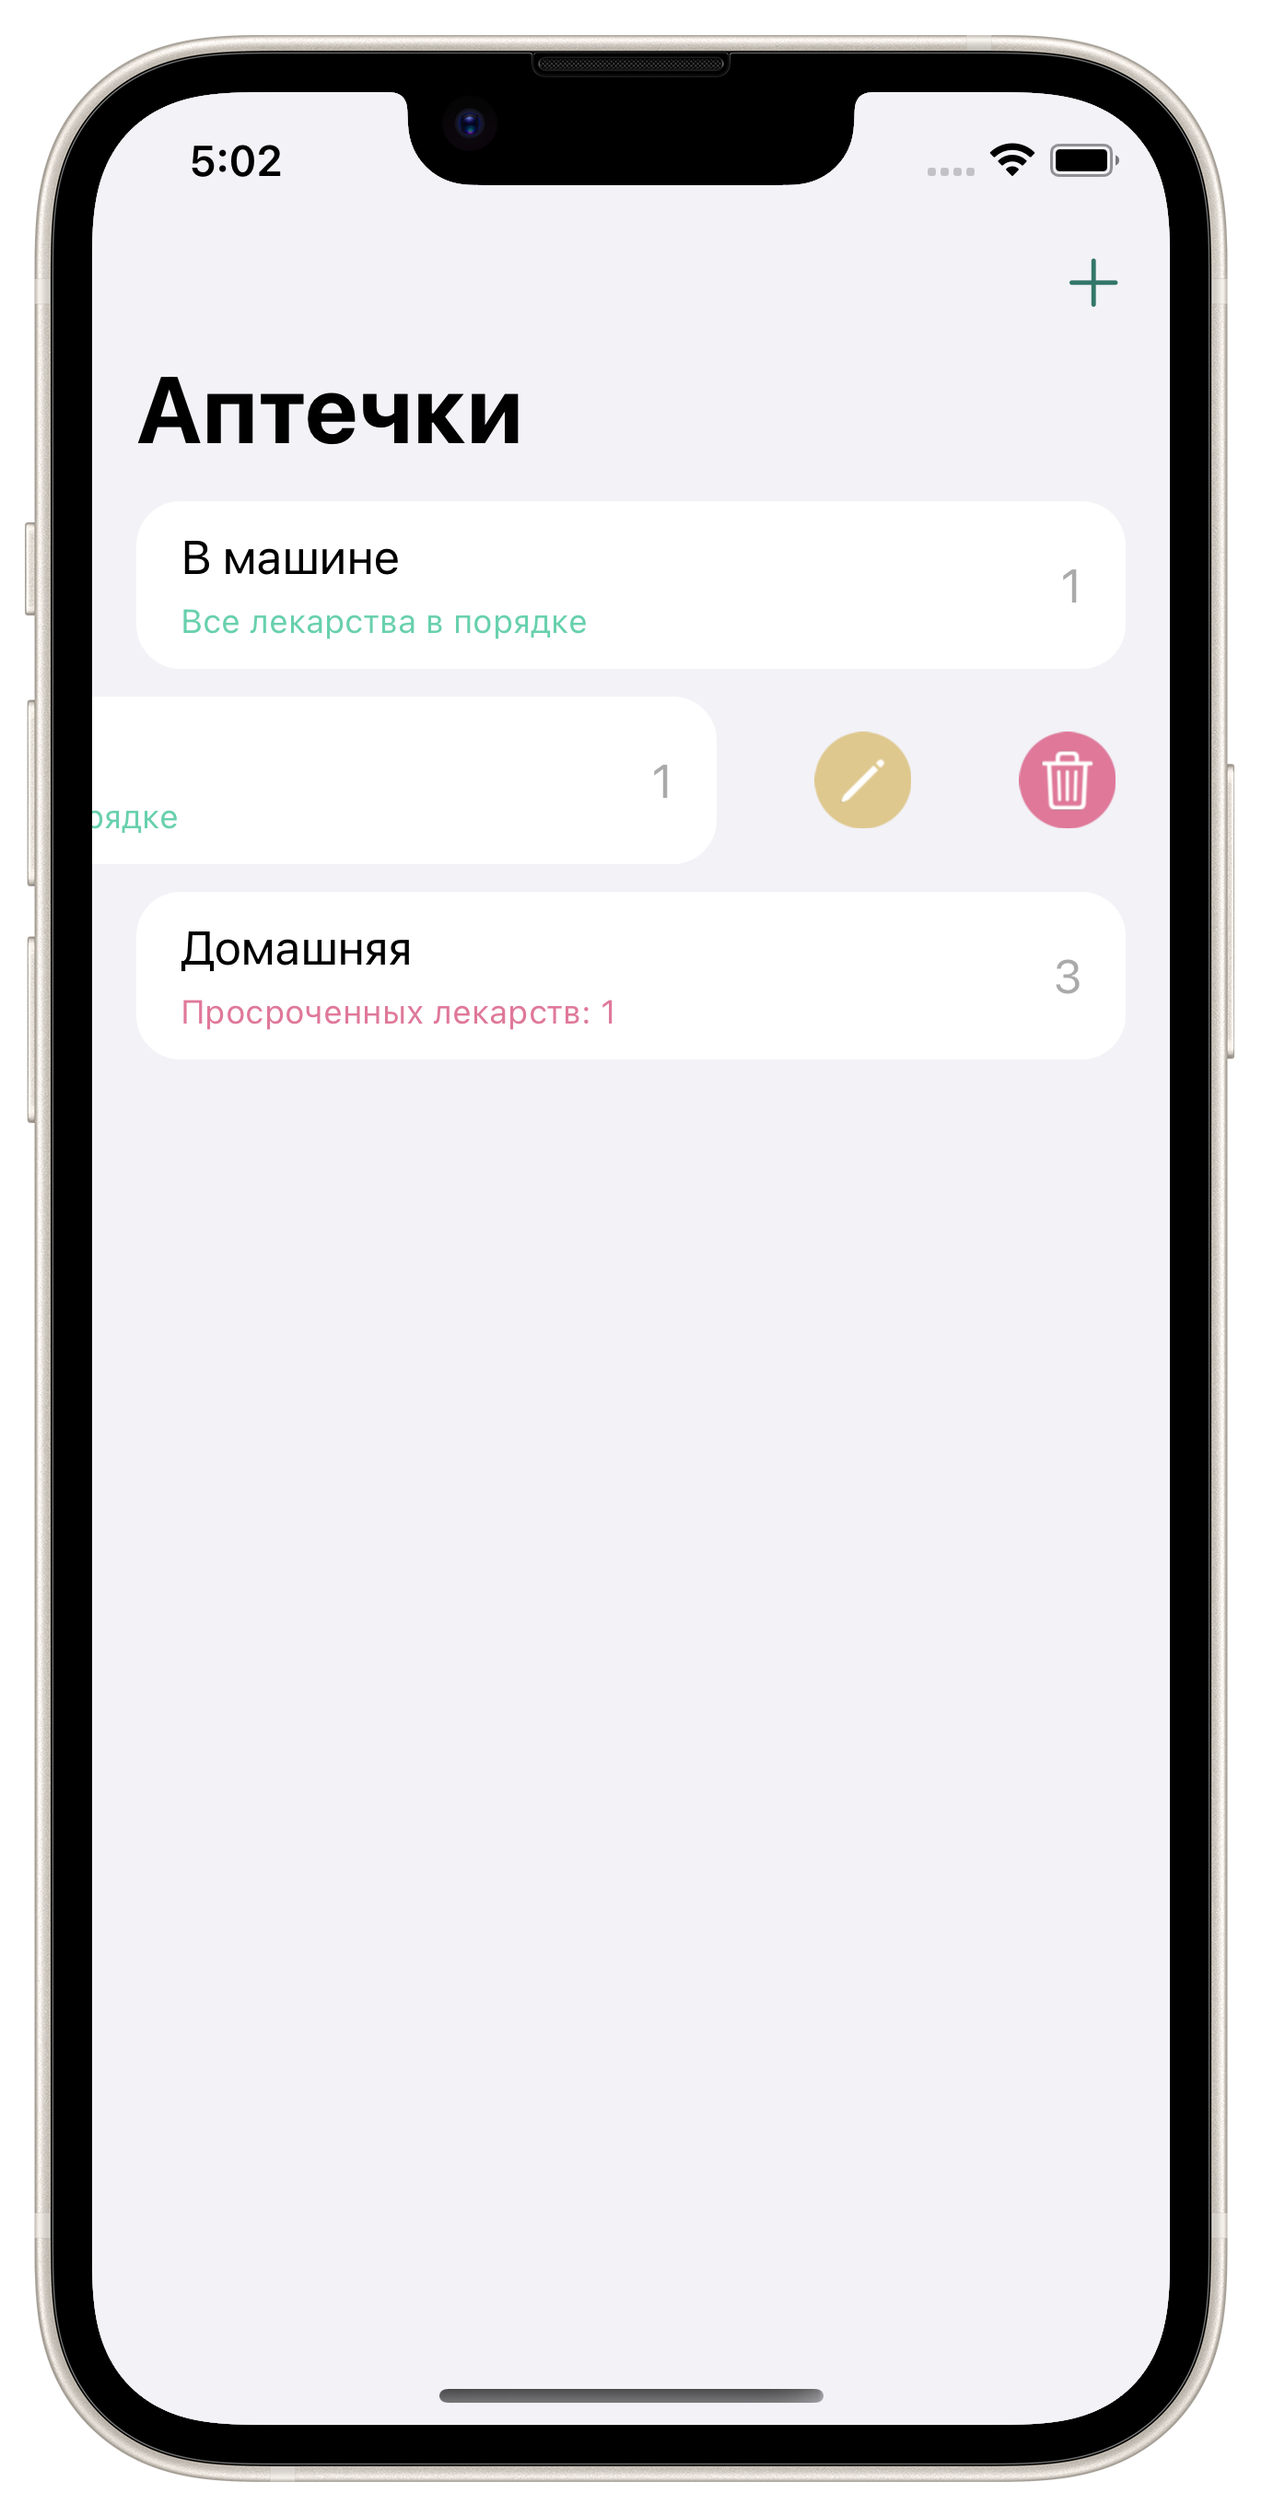
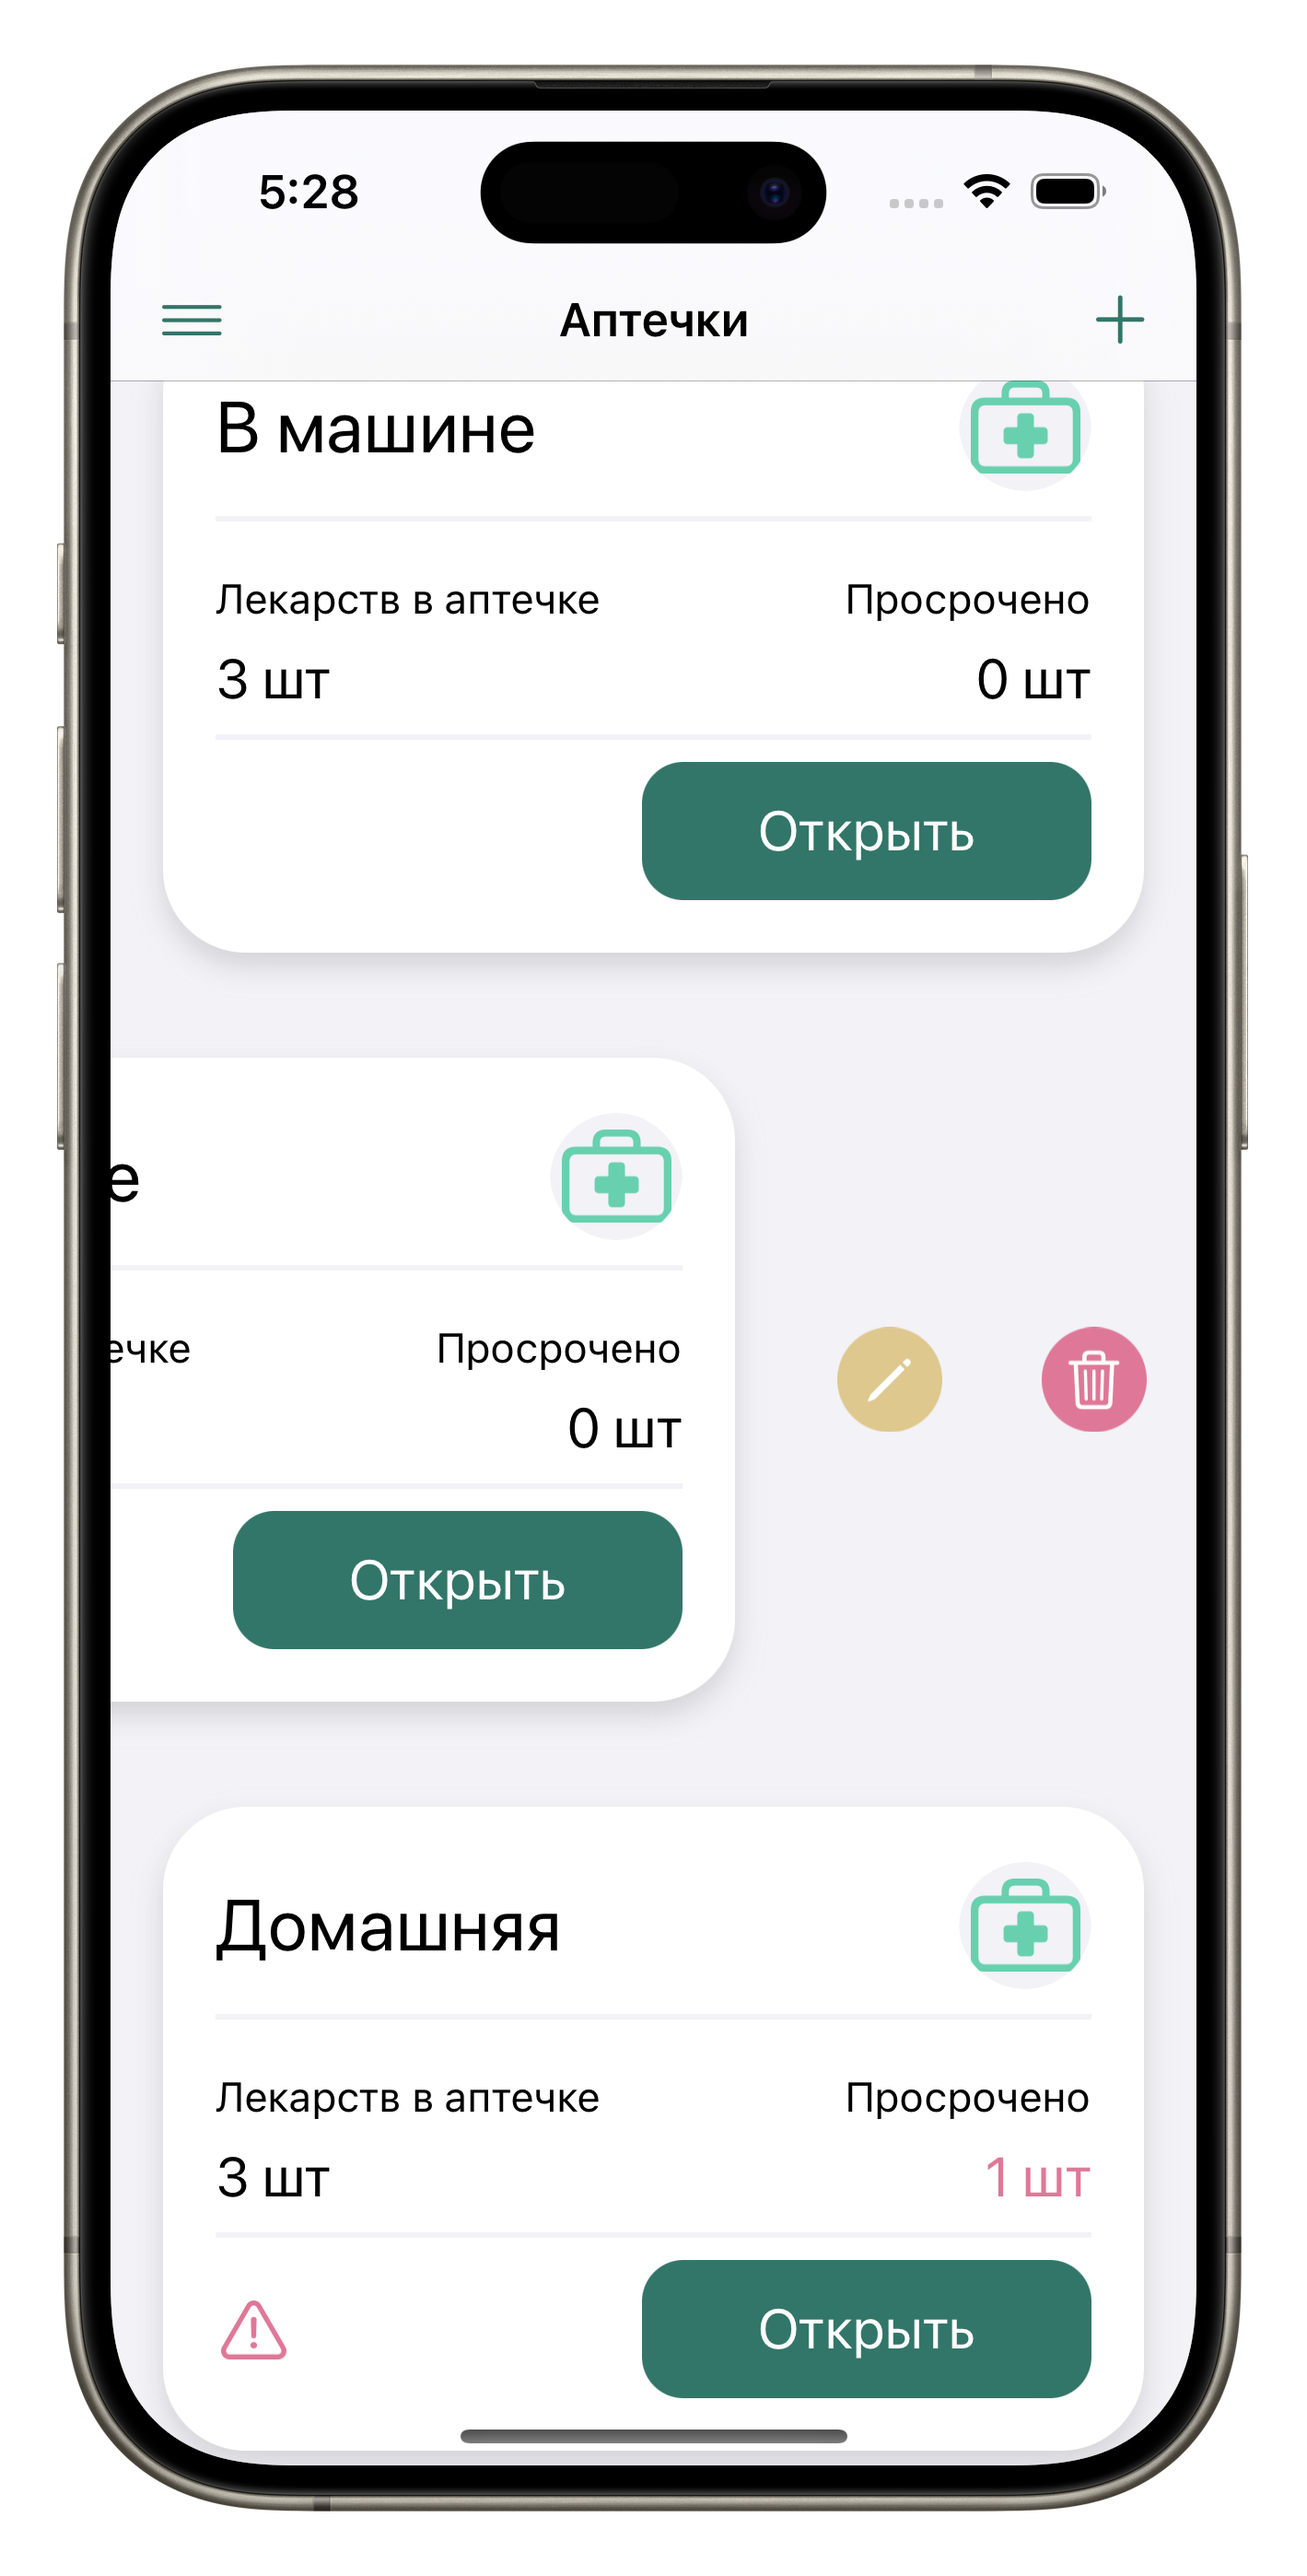
fix: Убрал лишние таргеты из сборки приложения
- Обновил скриншоты и ридми

diff --git a/README.md b/README.md
@@ -72,7 +72,7 @@
 Clone and run project in Xcode 15 or newer
 
 ## Screenshots
-<img src="https://github.com/ZyFun/MedicineV2/blob/main/Screenshots/Screenshot000.png" width="252" height="503" /> <img src="https://github.com/ZyFun/MedicineV2/blob/main/Screenshots/Screenshot001.png" width="252" height="503" /> <img src="https://github.com/ZyFun/MedicineV2/blob/main/Screenshots/Screenshot002.png" width="252" height="503" />
+<img src="https://github.com/ZyFun/MedicineV2/blob/main/Screenshots/Screenshot000.png" width="252" height="497" /> <img src="https://github.com/ZyFun/MedicineV2/blob/main/Screenshots/Screenshot001.png" width="252" height="497" /> <img src="https://github.com/ZyFun/MedicineV2/blob/main/Screenshots/Screenshot002.png" width="252" height="497" /> <img src="https://github.com/ZyFun/MedicineV2/blob/main/Screenshots/Screenshot003.png" width="252" height="497" />
 
 ## Demo
 <img src="https://github.com/ZyFun/MedicineV2/blob/main/Screenshots/Demo.gif" width="252" height="545" />
